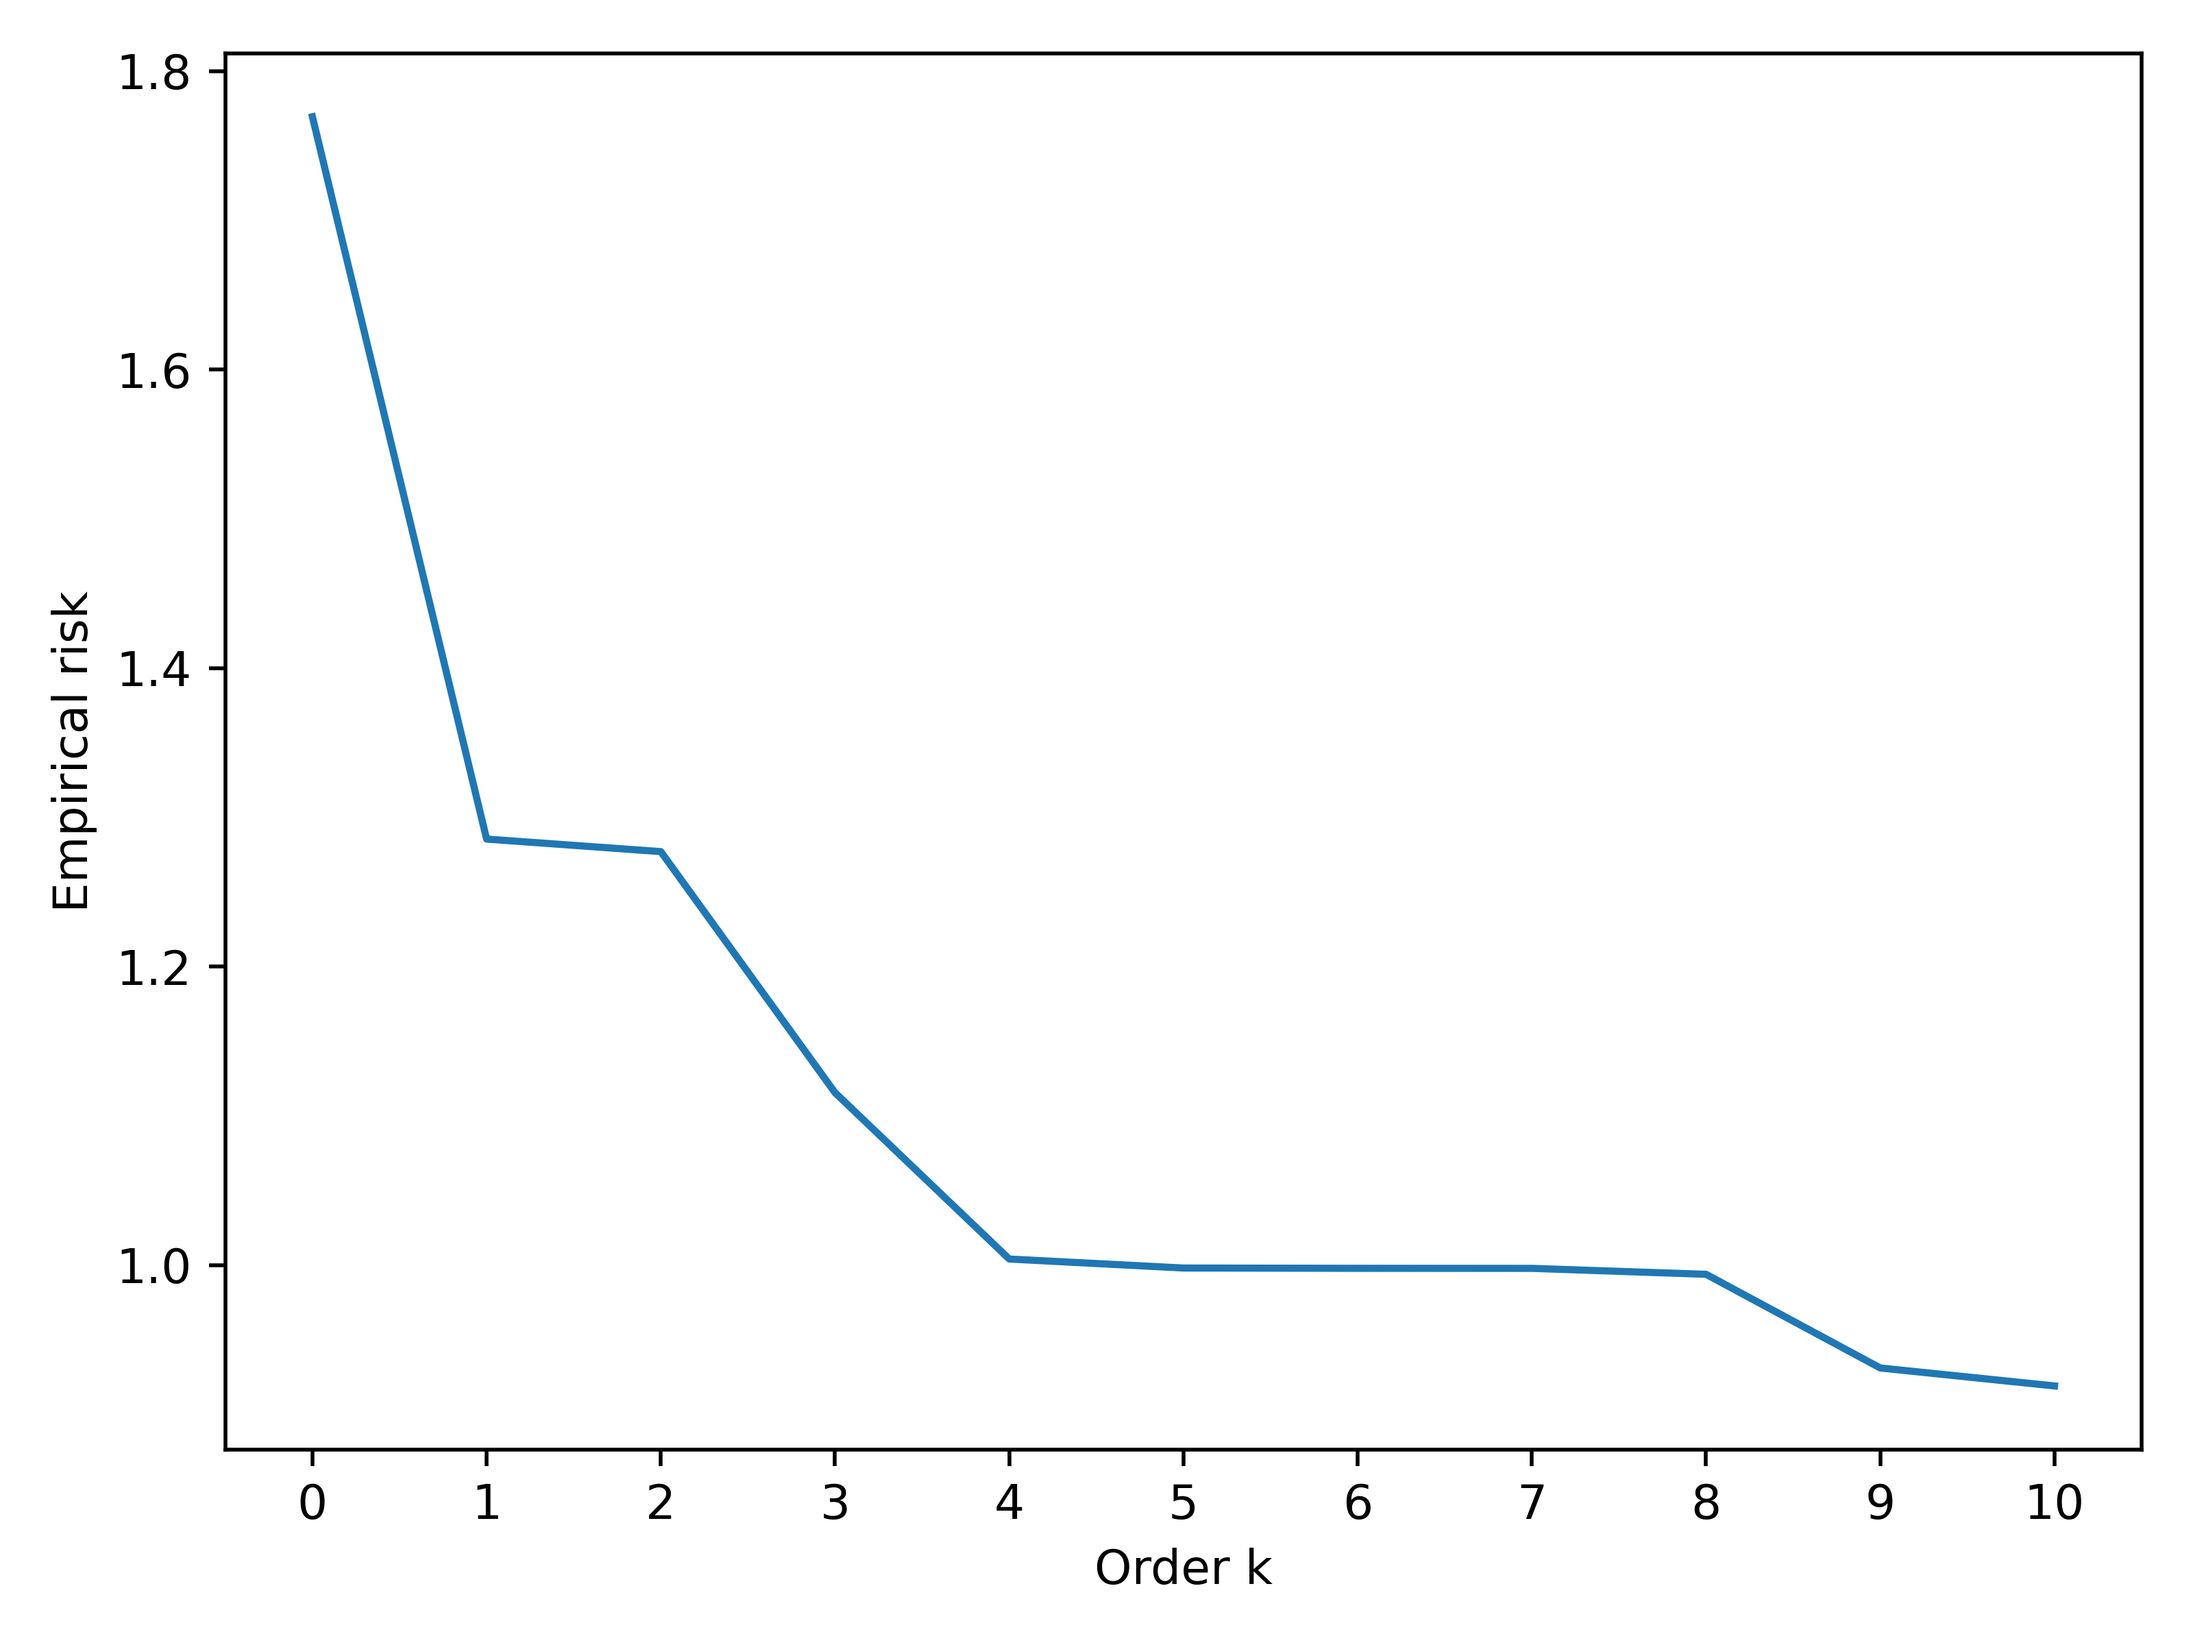
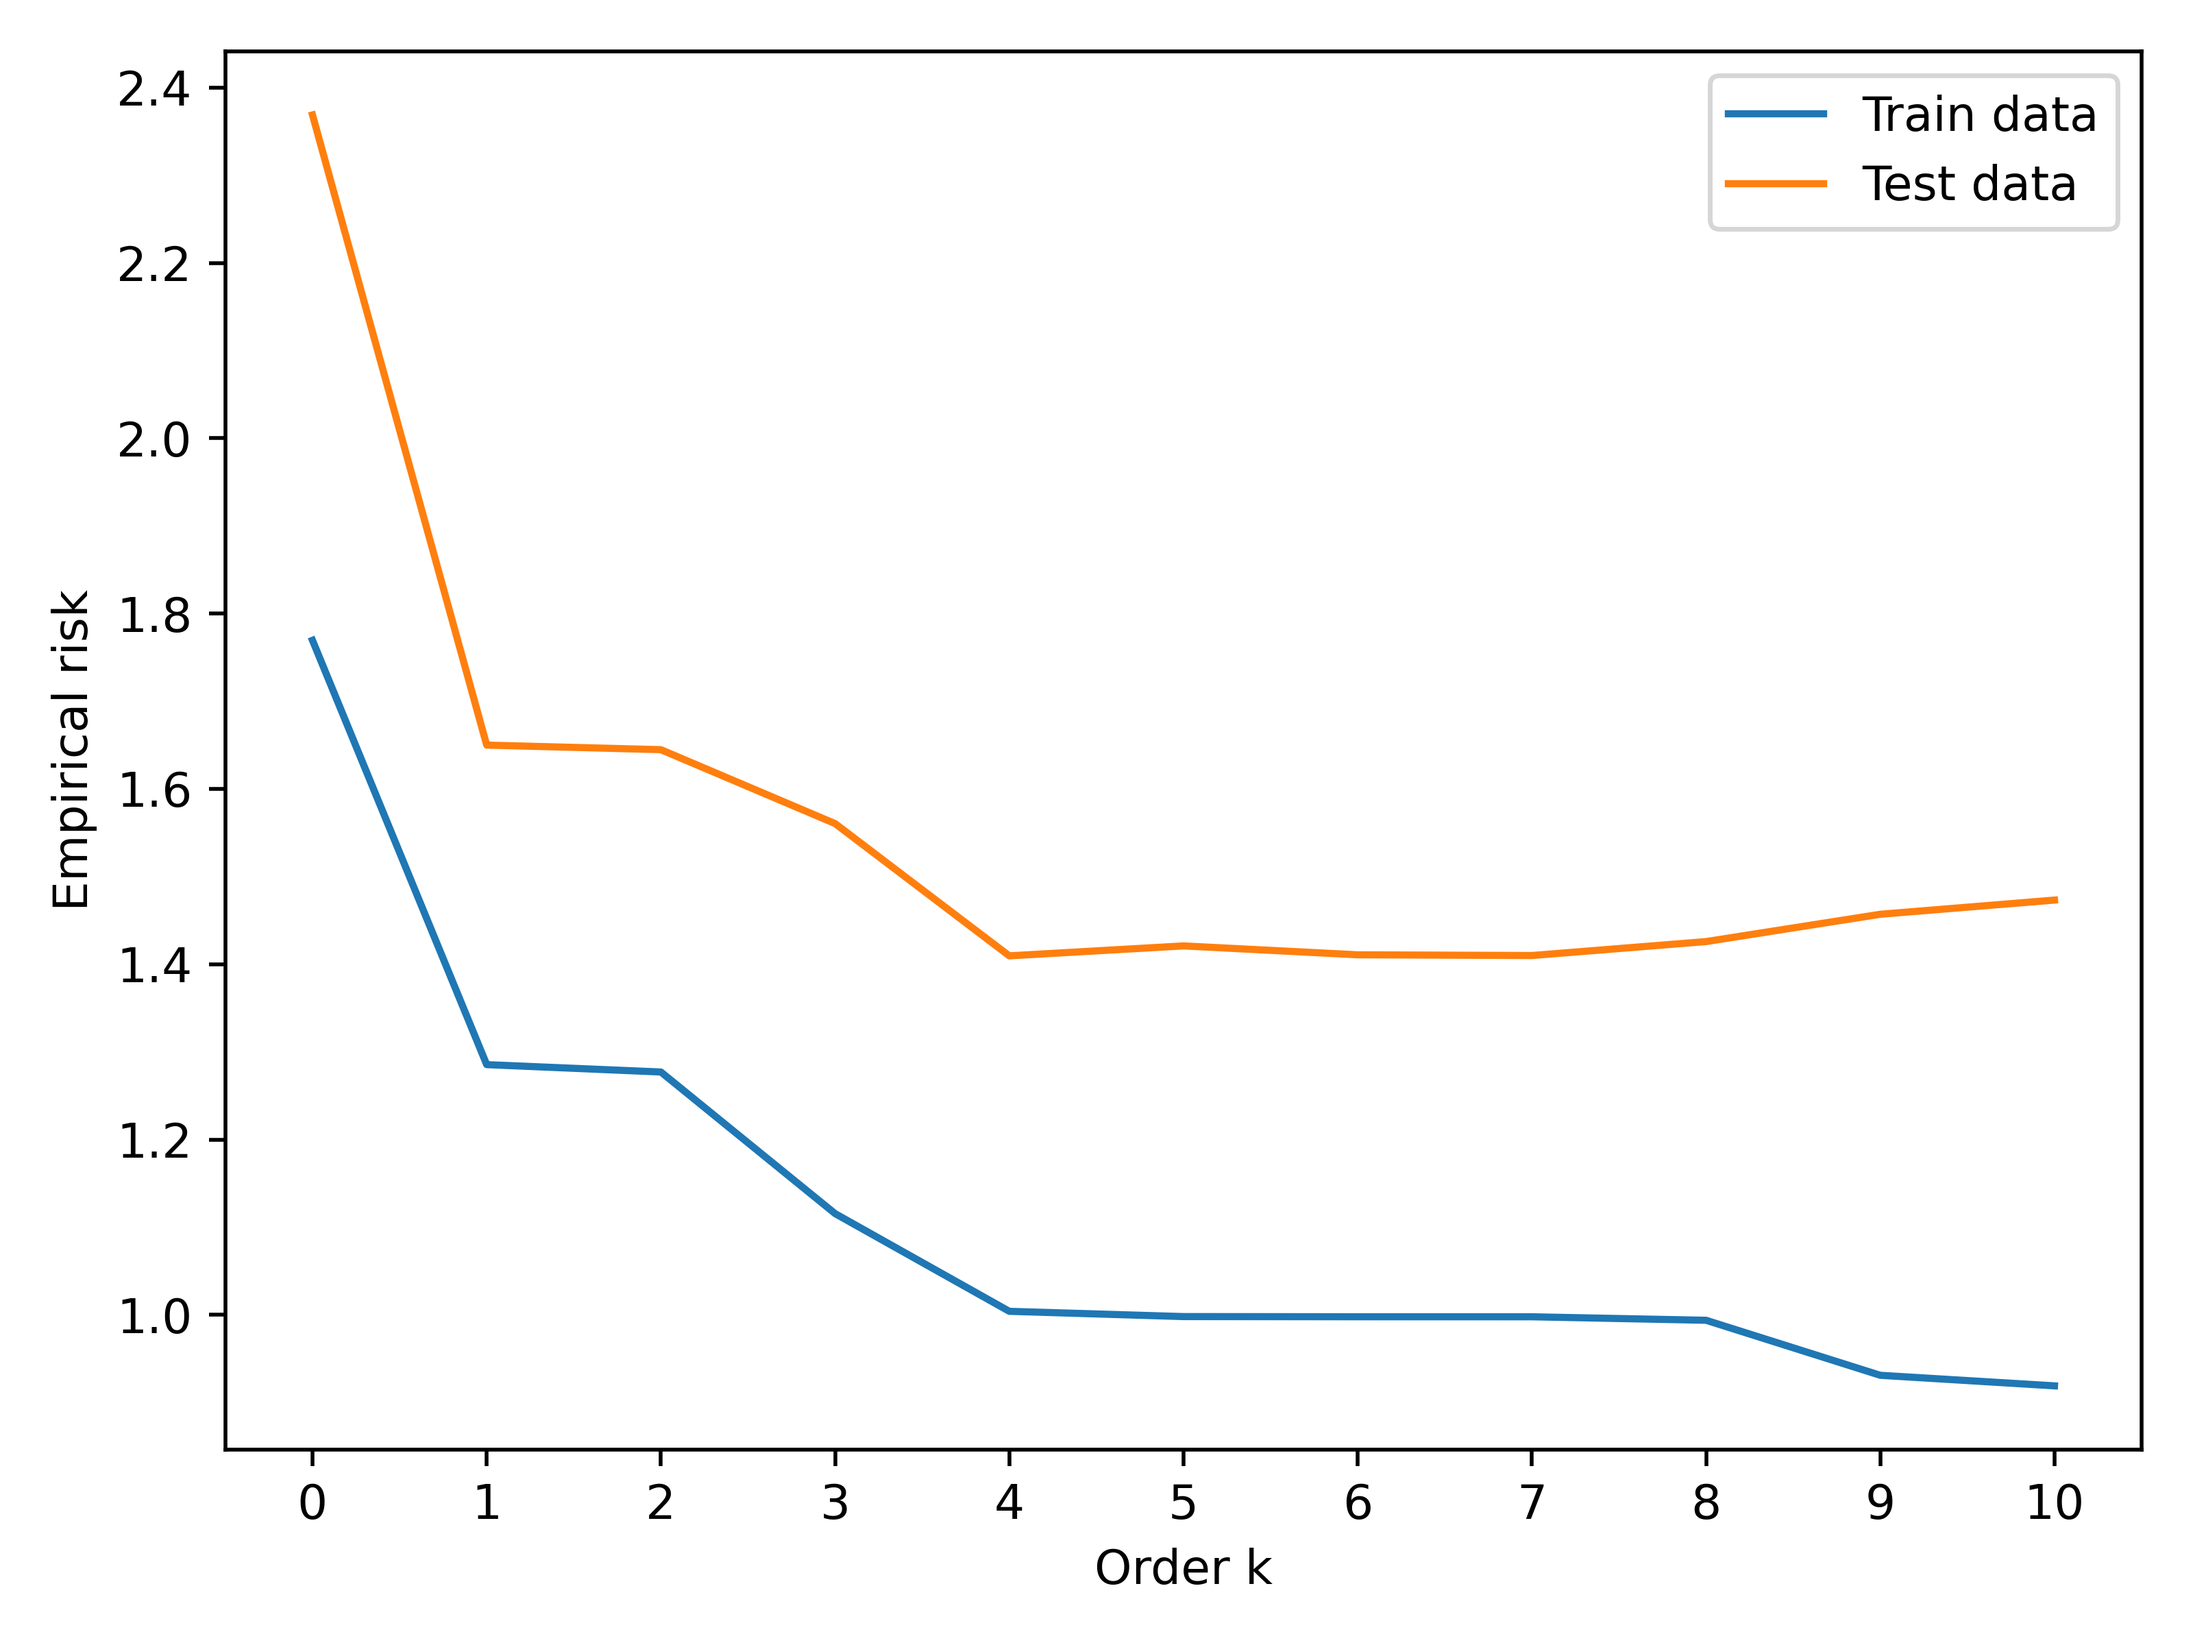
data analysis

diff --git a/sheet_5/data_fit.py b/sheet_5/data_fit.py
@@ -31,14 +31,24 @@ fig.tight_layout()
 fig.savefig("./figures/data.png")
 
 
-# c
-empirical_risk_values = []
+# c,d
+def residual_error(y_true, y_pred):
+    return sum((y_true - y_pred) ** 2) / len(y_true)
+
+
+empirical_risk_values_train, empirical_risk_values_test = [], []
 for k in range(11):
-    empirical_risk_values.append(np.polyfit(train_t, train_y, k, full=True)[1][0] / len(train_t))
+    fit_parameters, residuals = np.polyfit(train_t, train_y, k, full=True)[0:2]
+    empirical_risk_values_train.append(residuals[0] / len(train_t))
+    fitting_function = np.poly1d(fit_parameters)
+    empirical_risk_values_test.append(residual_error(fitting_function(test_t), test_y))
+print(empirical_risk_values_test)
 
 fig, ax = plt.subplots(dpi=500)
-ax.plot(range(11), empirical_risk_values)
+ax.plot(range(11), empirical_risk_values_train, label="Train data")
+ax.plot(range(11), empirical_risk_values_test, label="Test data")
 ax.set(xlabel="Order k", ylabel="Empirical risk", xticks=range(11))
+ax.legend()
 
 fig.tight_layout()
 fig.savefig("./figures/empirical_risk.png")

diff --git a/sheet_6/data_analysis.py b/sheet_6/data_analysis.py
@@ -1,0 +1,13 @@
+import pandas as pd
+
+data_frame = pd.read_csv("./data/train.csv", index_col="id")
+
+
+with open("./data/data_head.txt", "w") as data_head_file:
+    for row in range(10):
+        for column in data_frame.columns:
+            print(f"{column}: ", end="", file=data_head_file)
+            print(data_frame[column].iloc[row], file=data_head_file)
+        print("\n\n", file=data_head_file)
+
+    print(data_frame.shape, file=data_head_file)
